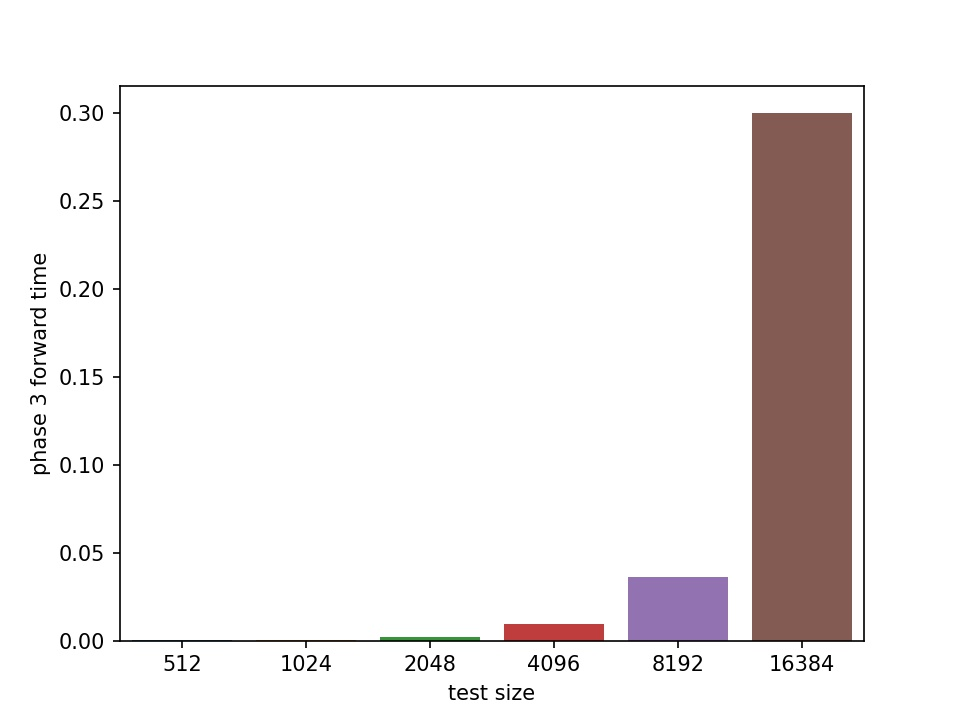
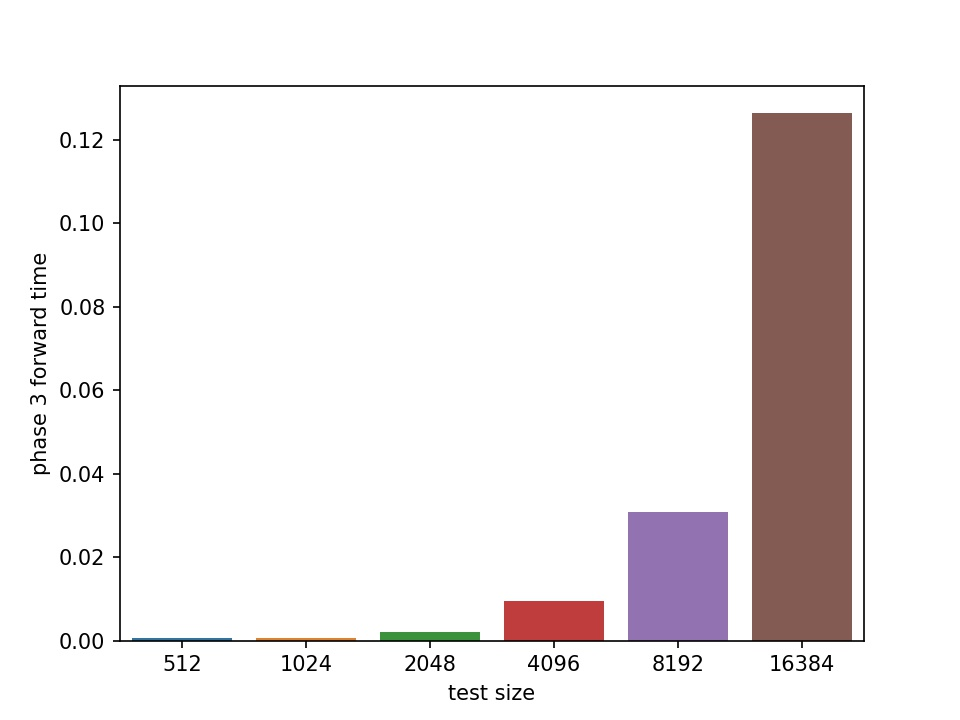
更改代码，刷新画板

diff --git a/time_draw.py b/time_draw.py
@@ -8,12 +8,16 @@ def time_test_draw(time_list):
     time_dataframe = pd.DataFrame(time_list)
     print(time_dataframe)
     plt.figure(dpi=150)
+    plt.clf()
     sns.barplot(x='test size',y='phase 1 forward time', data=time_dataframe)
     plt.savefig("img/phase 1 forward time.jpg")
+    plt.clf()
     sns.barplot(x='test size',y='phase 2 forward time', data=time_dataframe)
     plt.savefig("img/phase 2 forward time.jpg")
+    plt.clf()
     sns.barplot(x='test size',y='phase 3 forward time', data=time_dataframe)
     plt.savefig("img/phase 3 forward time.jpg")
+    plt.clf()
     sns.barplot(x='test size',y='backward time', data=time_dataframe)
     plt.savefig("img/backward time.jpg")
 
